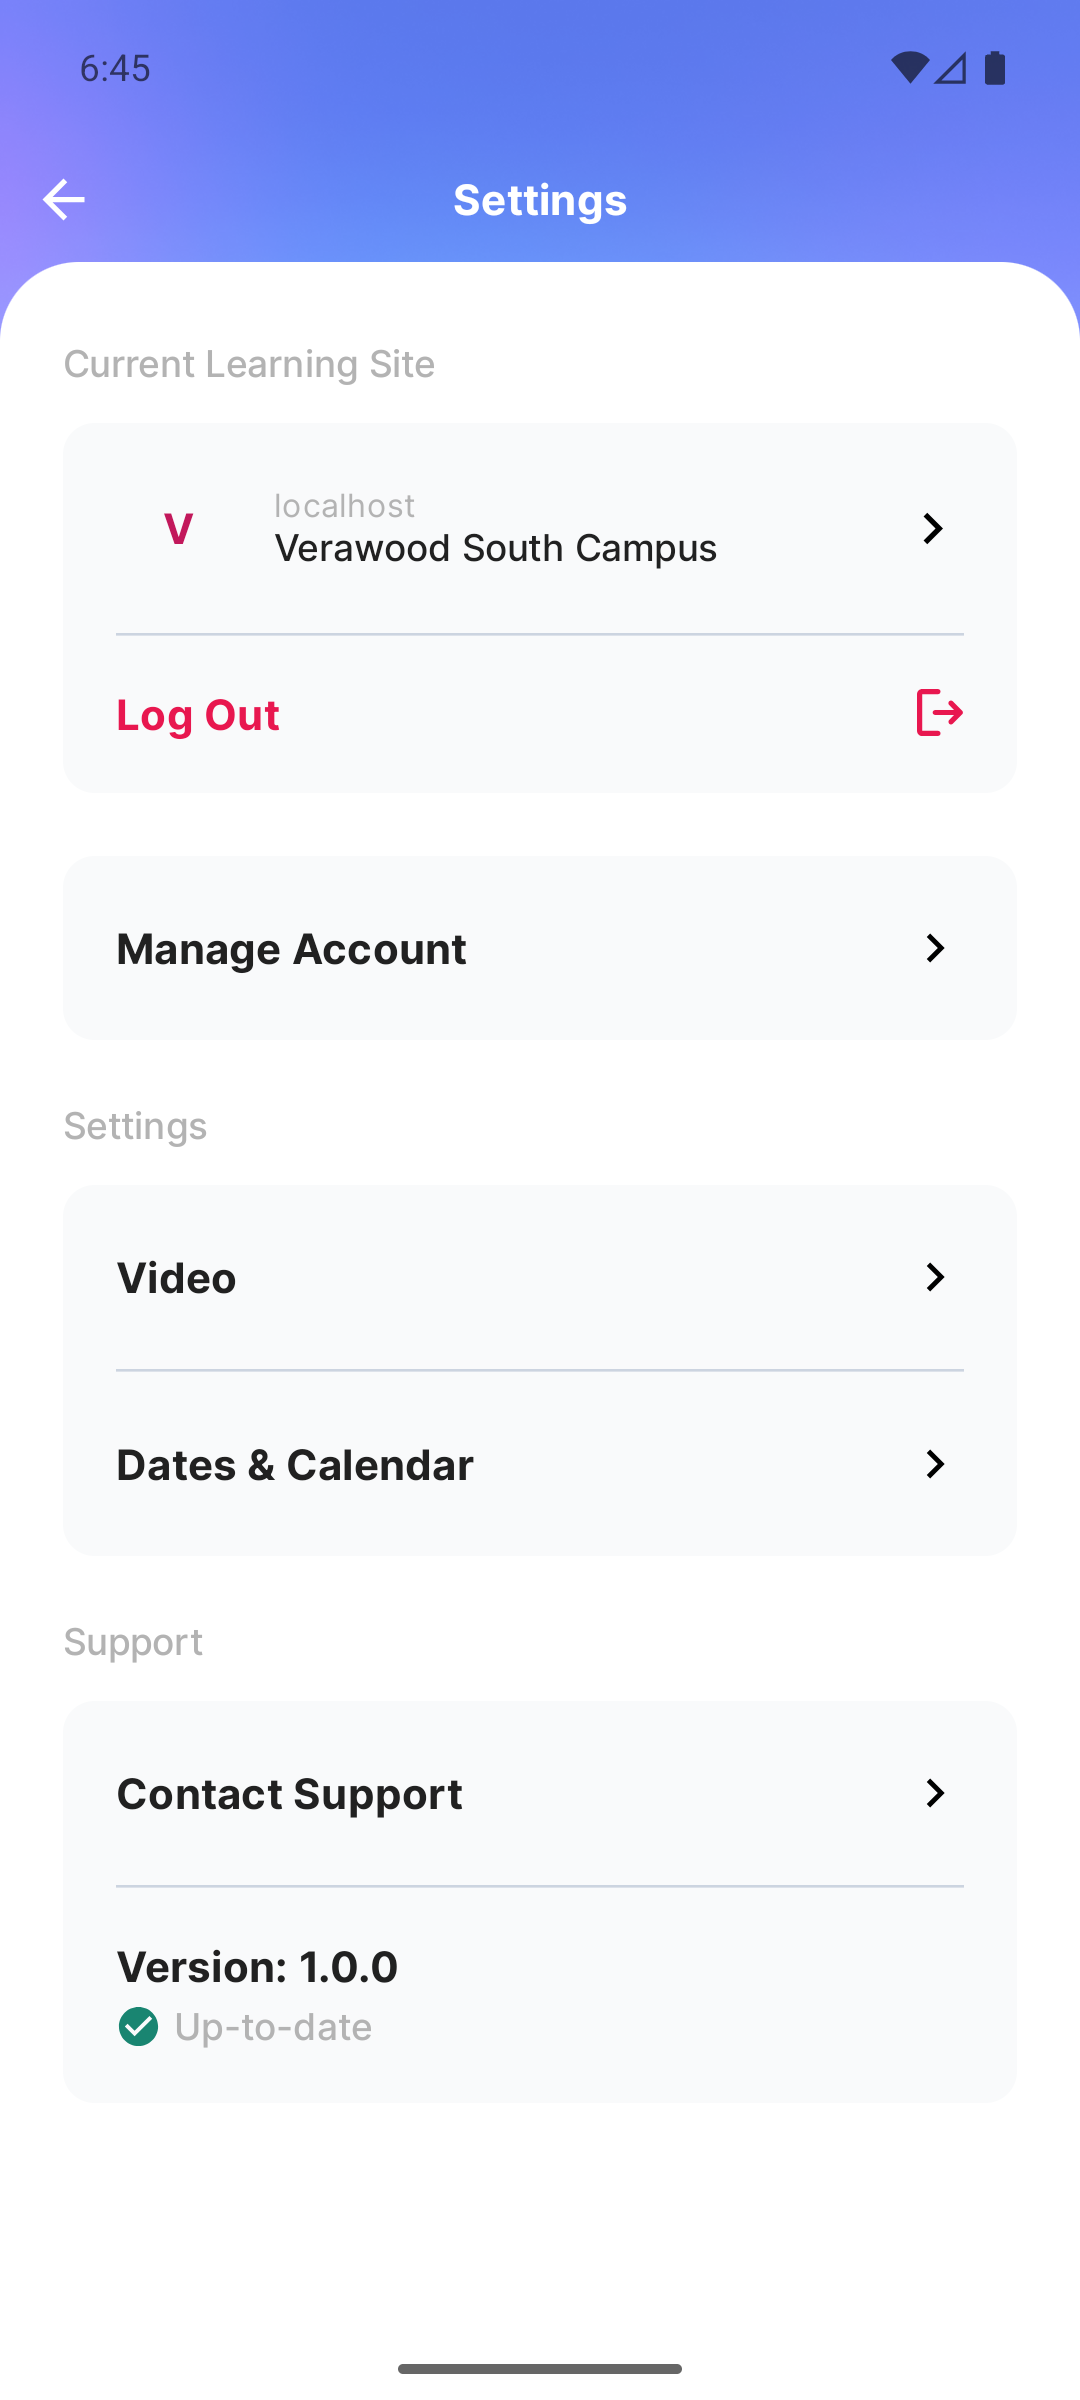
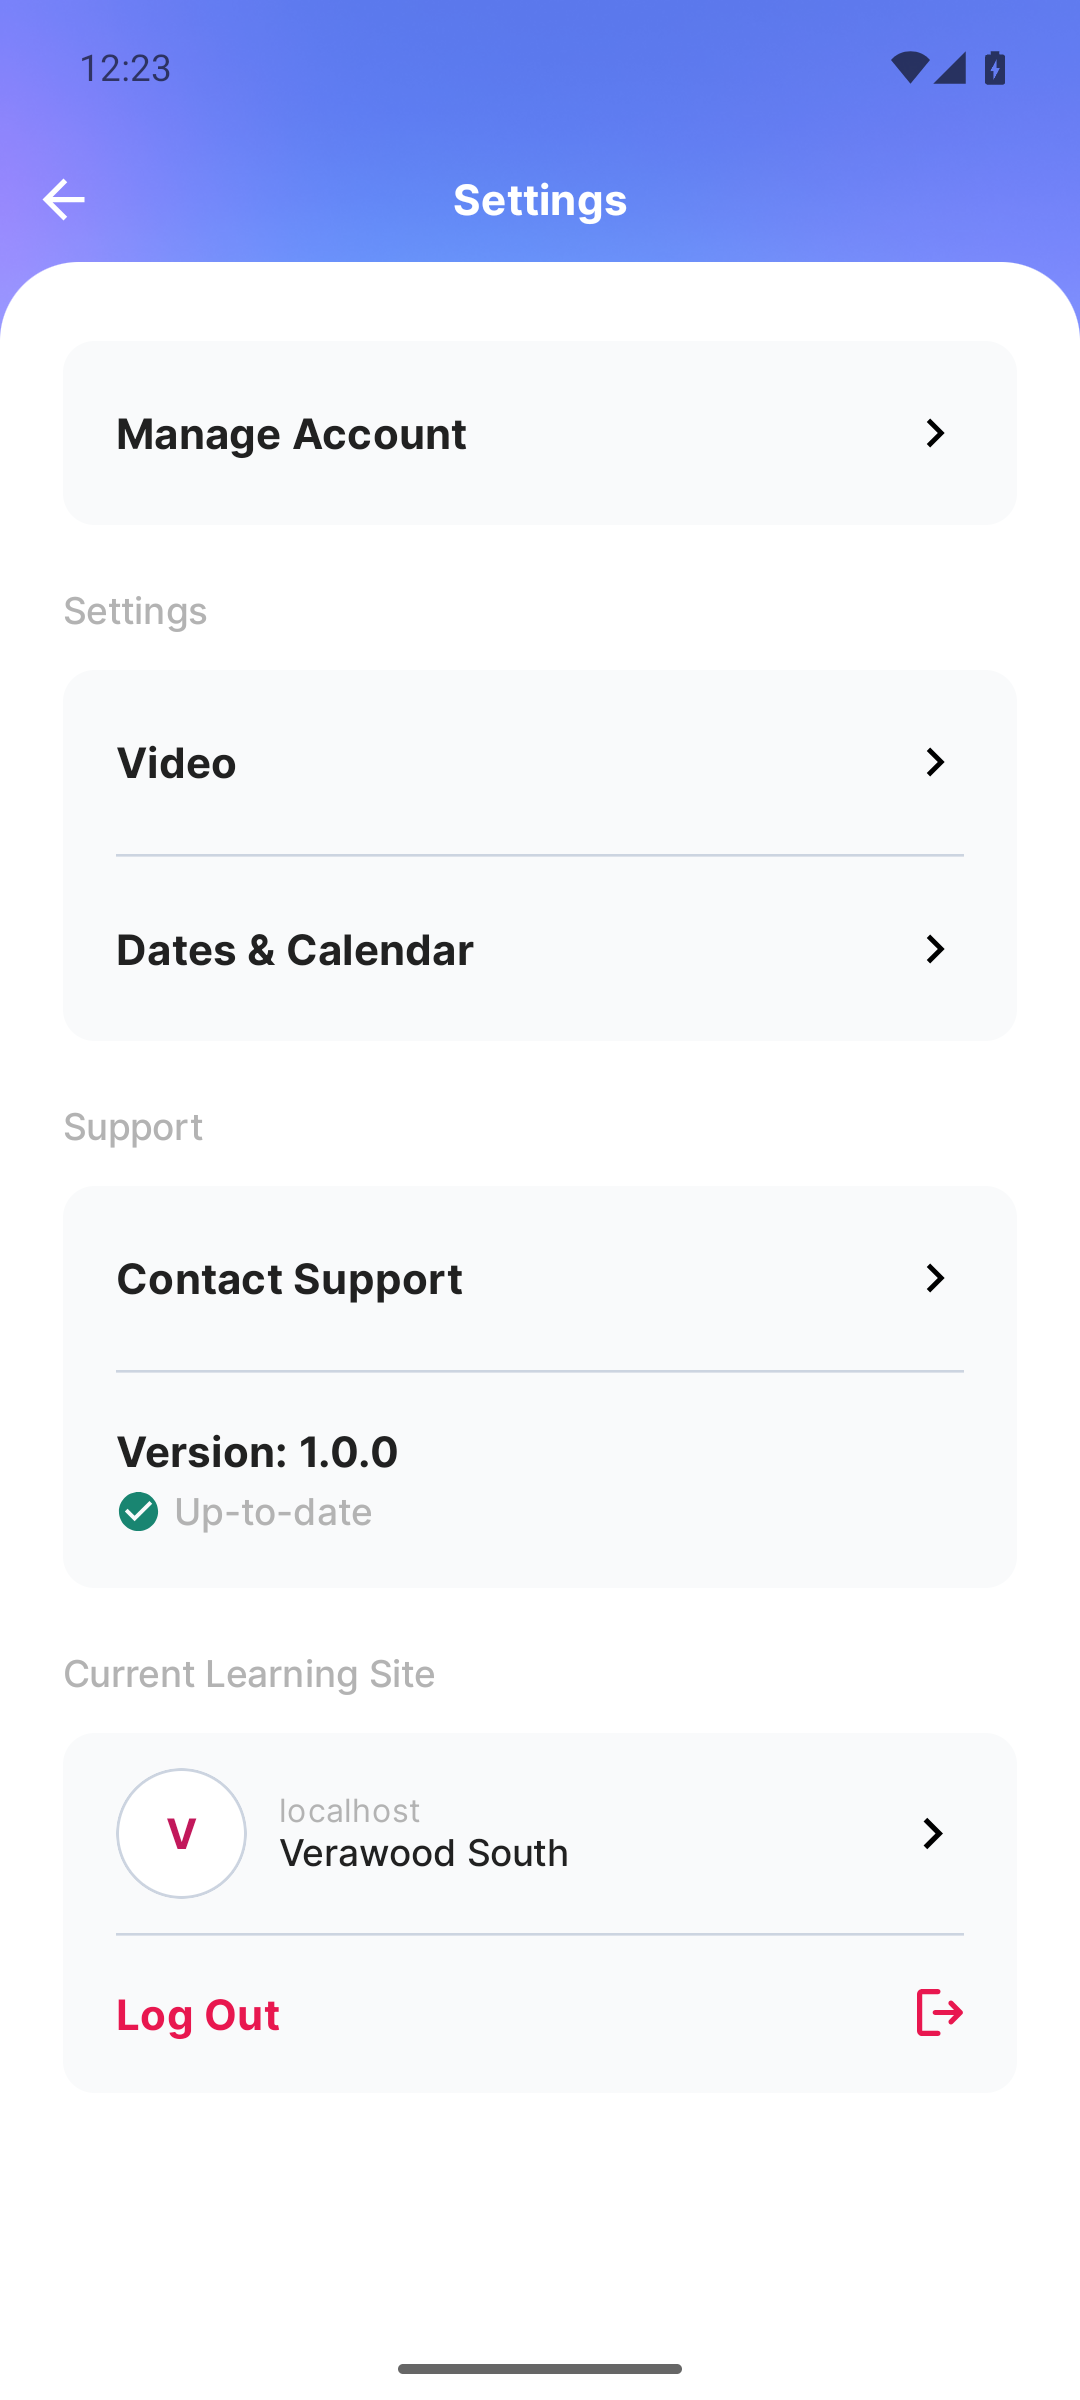
evidence: retake screenshots after the iOS parity pass

diff --git a/README.md b/README.md
@@ -18,16 +18,18 @@ This branch holds evidence only; it is not meant to be merged.
 
 ## What the screenshots show
 
+Screenshots 01–07 and 09–12 were retaken on 2026-10-20 after the iOS parity pass (`9ed6ed24`); 08 and 13–16 are from the first run.
+
 | # | Check |
 |---|---|
 | 01 | Multi-site build opens on site selection. |
 | 02 | Choosing South opens its sign-in, branded, with the selected site and a Change link. |
 | 03 | South signed in; requests went to `localhost:19001` with client `mi-site-b` (LMS log). |
-| 04–05 | Settings shows the current site card with Log Out; it opens Learning Sites. |
+| 04–05 | Settings shows the current site card with Log Out at the bottom, as on iOS; it opens Learning Sites. |
 | 06 | North signed in; requests to `localhost:19000` with `mi-site-a`. |
 | 07 | Both sites keep their sessions. |
 | 08 | Back to South with no sign-in and no token request. |
-| 09–10 | Logging out of North (not selected) keeps South signed in. |
+| 09–10 | Logging out of South (not selected), through the app's log out dialog, keeps North signed in. |
 | 11 | Logging out of the selected site returns to site selection with the default theme. |
 | 12 | Learning Sites in dark mode. |
 | 13–14 | A single-site build (no `INSTANCES`) looks as before: no picker, no site card. |
